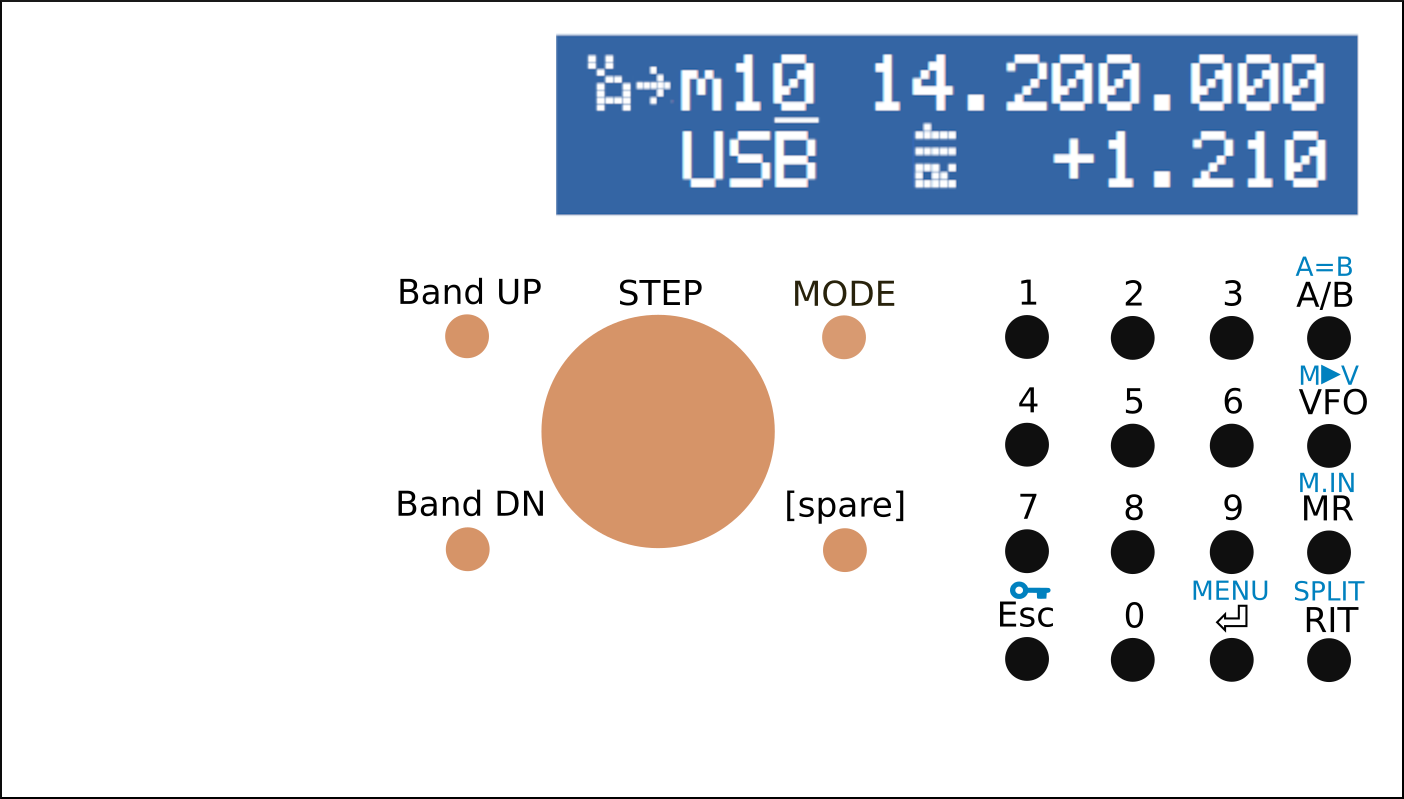
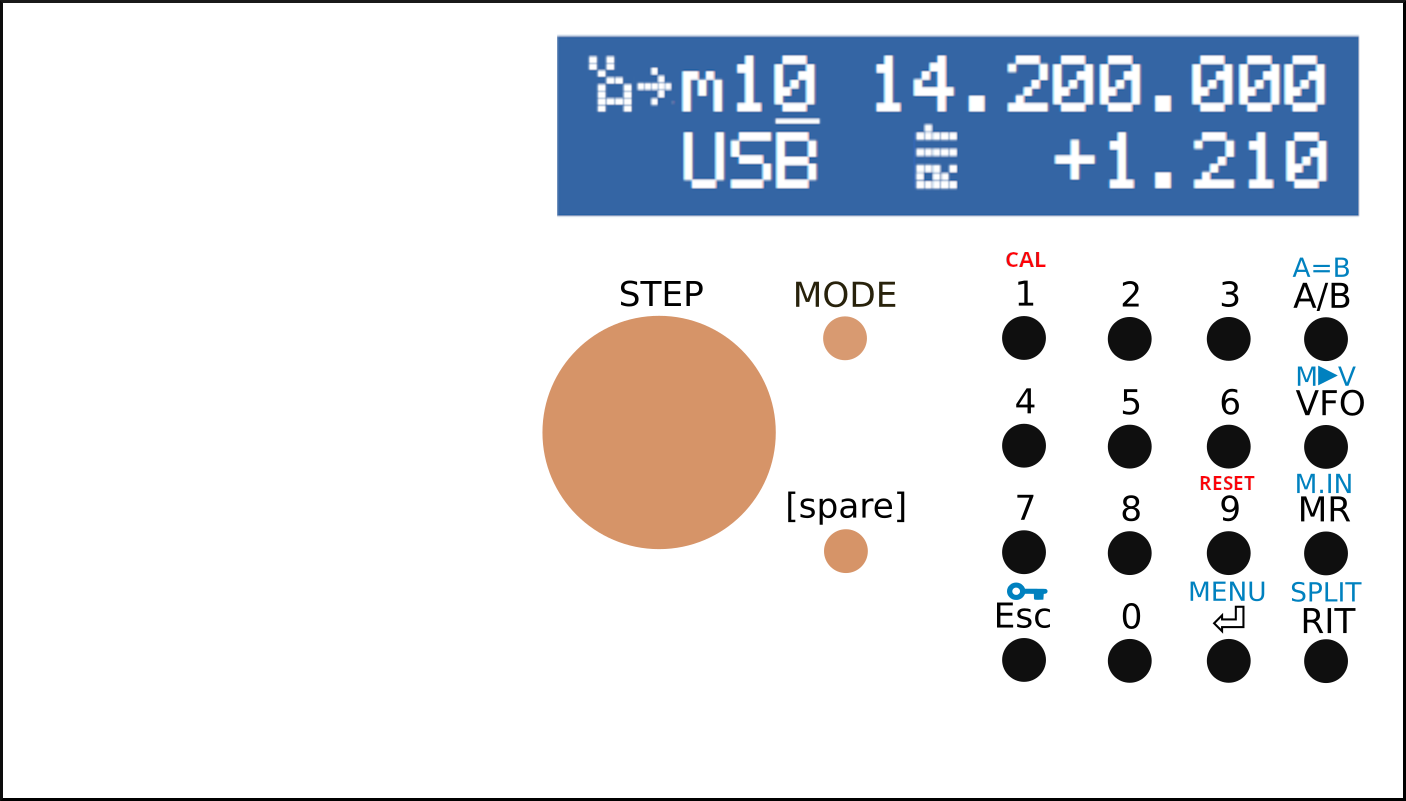
Smart-VFO mono-fork documentation tune up

diff --git a/README.md b/README.md
@@ -1,7 +1,25 @@
-This is an evolution of the [Smart-VFO](https://github.com/fcisotta/smart-vfo) project, to support a single band RTX.
-Some features are simplified and specialized for the requirements of a one-band-only VFO (band definition being set at runtime in the calibration menu, fewer buttons required, etc.).
+This is an **evolution of the [Smart-VFO](https://github.com/fcisotta/smart-vfo) project**, specialized for **single-band RTX operations**.
 
-Further documentation will follow...
+While one band only is supported, this allowed featuring complete band configuration at runtime (band limits, along with conversion design, power levels, etc. may be set in the calibration menu, with the front-end controls). Thus, no coding is required to set up firmware for the RTX project.
+
+All standard features of the Smart-VFO are maintained in this version, including the A/B VFO duality and memory channels amount.
+
+`BAND_UP` and `BAND_DN` buttons are spared, since they become useless in this application, while their role at boot time (opening calibration menu and triggering factory reset) have been reassigned to keypad buttons `1` and `9`, respectively.
+
+Please refer to the multi-band [Smart-VFO](https://github.com/fcisotta/smart-vfo) project for any further detail.
+
+
+
+<br/>
+
+# User Interface controls
+
+&nbsp; &nbsp; &nbsp; &nbsp; &nbsp; &nbsp; &nbsp; &nbsp; ![UI panel](res/UI/UI-panel.png)
+
+Blue-labeled button functions may be activated by a long press (> 1 s).
+
+Red-labeled button functions are enforced at boot time.
+
 
 <br/>
 
